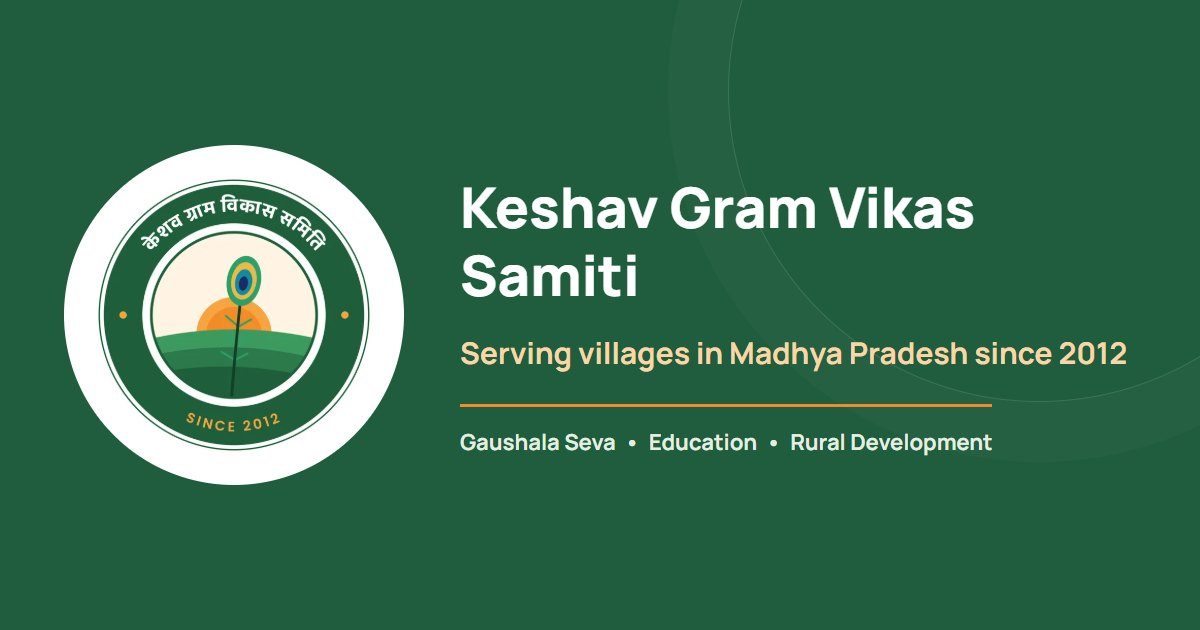
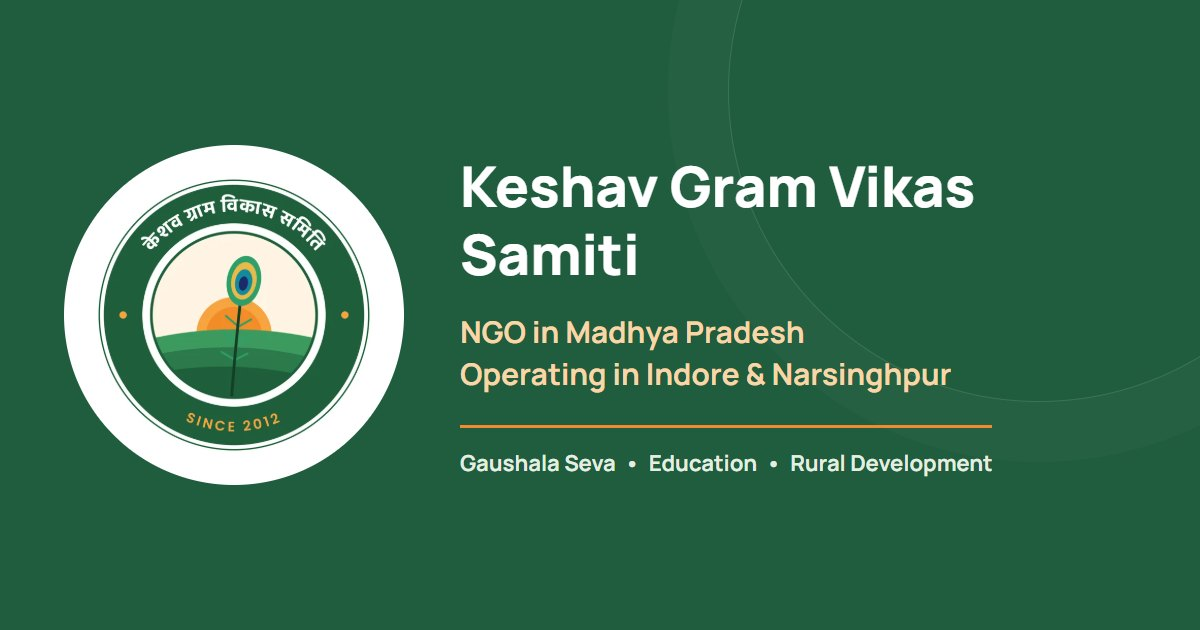
Add Search Console verification and update NGO details
Set the production domain, public contact details, and Indore and Narsinghpur operating locations across pages, SEO metadata, and share images.

Changed region(s): [[0.37, 0.5127, 0.9558, 0.754], [0.37, 0.2413, 0.8325, 0.4825]]

diff --git a/src/i18n.jsx b/src/i18n.jsx
@@ -15,8 +15,8 @@ export const translations = {
       { tag: 'OPPORTUNITY THROUGH LEARNING', title: <>Skills for today.<br/>Hope for <em>tomorrow.</em></>, text: 'Opening doors through education and vocational training in computer applications, beauty culture and cutting.', label: 'About Our Mission' },
     ],
     hero: { story: 'Know Our Story', note: 'Small acts of kindness. Lasting change.' },
-    trust: [['Registered NGO', 'Registrar of Societies'], ['Serving Since 2012', 'Rooted in rural development'], ['Madhya Pradesh', 'Working across 8 districts'], ['Driven by Seva', 'People, animals & our planet']],
-    intro: { eyebrow: 'OUR PURPOSE', title: <>Rooted in our villages.<br/>Inspired by <em>seva.</em></>, text: 'Keshav Gram Vikas Samiti is a registered non-government organisation based in Narsinghpur, Madhya Pradesh. Since 2012, our purpose has been simple: to help rural communities grow with dignity.', link: 'Meet the organisation' },
+    trust: [['Registered NGO', 'Registrar of Societies'], ['Serving Since 2012', 'Rooted in rural development'], ['Madhya Pradesh', 'Operating in Indore & Narsinghpur'], ['Driven by Seva', 'People, animals & our planet']],
+    intro: { eyebrow: 'OUR PURPOSE', title: <>Rooted in our villages.<br/>Inspired by <em>seva.</em></>, text: 'Keshav Gram Vikas Samiti is a registered non-government organisation in Madhya Pradesh, operating in Indore and Narsinghpur. Since 2012, our purpose has been simple: to help rural communities grow with dignity.', link: 'Meet the organisation' },
     work: { eyebrow: 'WHERE CARE BECOMES ACTION', title: <>Our areas of <em>service.</em></>, text: <>A better tomorrow begins with<br/>what we care for today.</>, support: 'Support cow seva', learn: 'Learn more' },
     areas: [
       { title: 'Gaushala Seva', text: 'Compassionate care for cows, calves and bulls. Help support feed, shelter and everyday wellbeing.', tag: 'CARE & COMPASSION' },
@@ -28,15 +28,15 @@ export const translations = {
     about: {
       label: 'OUR STORY', title: <>Service at heart.<br/><em>Community at the centre.</em></>, text: 'Get to know Keshav Gram Vikas Samiti and the purpose that brings us together.',
       eyebrow: 'KESHAV GRAM VIKAS SAMITI', heading: <>Growing together,<br/>since <em>2012.</em></>,
-      p1: 'Based in Narsinghpur, Madhya Pradesh, Keshav Gram Vikas Samiti is a registered society working in rural development and community welfare.',
+      p1: 'Keshav Gram Vikas Samiti is a registered society in Madhya Pradesh, operating in Indore and Narsinghpur. We work in rural development and community welfare.',
       p2: 'Our focus brings together education, livelihoods, women’s empowerment, health, agriculture and care for the environment. Gaushala seva adds a commitment to compassionate care for cows, calves and bulls.',
       skills: 'Skills that open doors', p3: 'Our vocational training includes Computer Application, Beauty Culture and Cutting, supporting practical learning and opportunities for self-reliance.',
       glance: 'Our organisation at a glance',
-      facts: [['Established', '2012'], ['Organisation', 'Registered Society (Non-Government)'], ['Registered with', 'Registrar of Societies'], ['Based in', 'Narsinghpur, Madhya Pradesh'], ['FCRA status', 'No']],
+      facts: [['Established', '2012'], ['Organisation', 'Registered Society (Non-Government)'], ['Registered with', 'Registrar of Societies'], ['State', 'Madhya Pradesh'], ['Operating in', 'Indore, Narsinghpur'], ['FCRA status', 'No']],
       focusEyebrow: 'OUR FOCUS', focusTitle: <>Many needs. One spirit of <em>service.</em></>,
       focus: ['Gaushala Seva', 'Agriculture', 'Animal Husbandry, Dairying & Fisheries', 'Art & Culture', 'Children', 'Disaster Management', 'Drinking Water', 'Education & Literacy', 'Environment & Forests', 'Health & Family Welfare', 'HIV/AIDS', 'Micro Finance (SHGs)', 'Minority Issues', 'Nutrition', 'Panchayati Raj', 'Rural Development & Poverty Alleviation', 'Women’s Development & Empowerment', 'Youth Affairs'],
-      whereEyebrow: 'WHERE WE WORK', whereTitle: <>Our roots in <em>Madhya Pradesh.</em></>, whereText: 'Our operational districts connect us to communities across the state.',
-      districts: ['Sagar', 'Damoh', 'Vidisha', 'Raisen', 'Jabalpur', 'Narsimhapur', 'Chhindwara', 'Seoni'],
+      whereEyebrow: 'WHERE WE WORK', whereTitle: <>Our roots in <em>Madhya Pradesh.</em></>, whereText: 'We currently operate in Indore and Narsinghpur.',
+      districts: ['Indore', 'Narsinghpur'],
     },
     donate: {
       label: 'GIVE WITH COMPASSION', title: <>A small contribution.<br/><em>A meaningful difference.</em></>, text: 'Support the care of cows and the wellbeing of our rural communities.',
@@ -63,7 +63,7 @@ export const translations = {
     },
     contact: {
       label: 'GET IN TOUCH', title: 'Contact us', text: 'Reach out to Keshav Gram Vikas Samiti about our work, partnerships or support.',
-      address: 'Address', phone: 'Phone', email: 'Email', pendingTitle: 'Phone and email', pendingText: 'Our direct contact details will be added here soon.',
+      address: 'Operating in', phone: 'Phone', email: 'Email', pendingTitle: 'Phone and email', pendingText: 'Our direct contact details will be added here soon.',
       reasonsTitle: 'You can contact us for', reasons: ['Gaushala seva and donations', 'Sponsorship and CSR partnerships', 'Volunteering', 'Vocational training', 'Questions about this website', 'Privacy requests'],
     },
     privacy: {
@@ -82,7 +82,7 @@ export const translations = {
     },
     callout: { eyebrow: 'TOGETHER, WE CAN DO MORE', title: <>Your kindness can<br/>be someone’s <em>new beginning.</em></>, cta: 'Support Our Mission' },
     notFound: { title: 'Page not found', text: 'The page you are looking for does not exist.', home: 'Go to Home' },
-    footer: { tagline: <>Serving our villages. Caring for every life.<br/>Growing together since 2012.</>, explore: 'Explore', focus: 'Our Focus', rooted: 'Rooted in Madhya Pradesh', location: <>Narsinghpur,<br/>Madhya Pradesh, India</>, rights: year => `© ${year} Keshav Gram Vikas Samiti. All rights reserved.`, made: 'Made with care. Inspired by seva.' },
+    footer: { tagline: <>Serving our villages. Caring for every life.<br/>Growing together since 2012.</>, explore: 'Explore', focus: 'Our Focus', rooted: 'Rooted in Madhya Pradesh', location: <>Indore & Narsinghpur,<br/>Madhya Pradesh, India</>, rights: year => `© ${year} Keshav Gram Vikas Samiti. All rights reserved.`, made: 'Made with care. Inspired by seva.' },
   },
   hi: {
     a11y: { language: 'भाषा चुनें', emblem: 'केशव ग्राम विकास समिति का प्रतीक चिह्न', orgEmblem: 'संस्था का प्रतीक चिह्न', orgName: 'केशव ग्राम विकास समिति', toggleNav: 'मेन्यू खोलें या बंद करें', mission: 'हमारा उद्देश्य', showSlide: n => `स्लाइड ${n} दिखाएँ`, play: 'स्लाइड शो चलाएँ', pause: 'स्लाइड शो रोकें', prev: 'पिछली स्लाइड', next: 'अगली स्लाइड' },
@@ -95,8 +95,8 @@ export const translations = {
       { tag: 'शिक्षा से नए अवसर', title: <>आज के लिए कौशल।<br/>कल के लिए <em>उम्मीद।</em></>, text: 'शिक्षा तथा कंप्यूटर एप्लीकेशन, ब्यूटी कल्चर और कटिंग के व्यावसायिक प्रशिक्षण से नए अवसरों के द्वार खोलना।', label: 'हमारे उद्देश्य के बारे में' },
     ],
     hero: { story: 'हमारी कहानी जानें', note: 'दया के छोटे कदम। स्थायी परिवर्तन।' },
-    trust: [['पंजीकृत एनजीओ', 'रजिस्ट्रार ऑफ़ सोसाइटीज़'], ['2012 से सेवा में', 'ग्रामीण विकास से जुड़े'], ['मध्य प्रदेश', '8 ज़िलों में कार्यरत'], ['सेवा से प्रेरित', 'लोग, पशु और हमारी धरती']],
-    intro: { eyebrow: 'हमारा उद्देश्य', title: <>अपने गाँवों से जुड़े।<br/><em>सेवा</em> से प्रेरित।</>, text: 'केशव ग्राम विकास समिति नरसिंहपुर, मध्य प्रदेश में स्थित एक पंजीकृत गैर-सरकारी संस्था है। 2012 से हमारा उद्देश्य सरल रहा है: ग्रामीण समुदायों को सम्मान के साथ आगे बढ़ने में मदद करना।', link: 'संस्था को जानें' },
+    trust: [['पंजीकृत एनजीओ', 'रजिस्ट्रार ऑफ़ सोसाइटीज़'], ['2012 से सेवा में', 'ग्रामीण विकास से जुड़े'], ['मध्य प्रदेश', 'इंदौर और नरसिंहपुर में कार्यरत'], ['सेवा से प्रेरित', 'लोग, पशु और हमारी धरती']],
+    intro: { eyebrow: 'हमारा उद्देश्य', title: <>अपने गाँवों से जुड़े।<br/><em>सेवा</em> से प्रेरित।</>, text: 'केशव ग्राम विकास समिति मध्य प्रदेश की एक पंजीकृत गैर-सरकारी संस्था है, जो इंदौर और नरसिंहपुर में कार्यरत है। 2012 से हमारा उद्देश्य सरल रहा है: ग्रामीण समुदायों को सम्मान के साथ आगे बढ़ने में मदद करना।', link: 'संस्था को जानें' },
     work: { eyebrow: 'जहाँ देखभाल कर्म बनती है', title: <>हमारे <em>सेवा क्षेत्र।</em></>, text: <>बेहतर कल की शुरुआत होती है<br/>आज की हमारी देखभाल से।</>, support: 'गौ सेवा में सहयोग करें', learn: 'और जानें' },
     areas: [
       { title: 'गौशाला सेवा', text: 'गायों, बछड़ों और बैलों की करुणामय देखभाल। चारे, आश्रय और उनके दैनिक कल्याण में सहयोग करें।', tag: 'देखभाल और करुणा' },
@@ -108,15 +108,15 @@ export const translations = {
     about: {
       label: 'हमारी कहानी', title: <>मन में सेवा।<br/><em>केंद्र में समाज।</em></>, text: 'केशव ग्राम विकास समिति और हमें एक साथ जोड़ने वाले उद्देश्य को जानें।',
       eyebrow: 'केशव ग्राम विकास समिति', heading: <>साथ-साथ आगे बढ़ते हुए,<br/><em>2012</em> से।</>,
-      p1: 'नरसिंहपुर, मध्य प्रदेश में स्थित केशव ग्राम विकास समिति एक पंजीकृत संस्था है, जो ग्रामीण विकास और समाज कल्याण के क्षेत्र में कार्य करती है।',
+      p1: 'केशव ग्राम विकास समिति मध्य प्रदेश की एक पंजीकृत संस्था है, जो इंदौर और नरसिंहपुर में ग्रामीण विकास और समाज कल्याण के क्षेत्र में कार्य करती है।',
       p2: 'हमारा कार्य शिक्षा, आजीविका, महिला सशक्तिकरण, स्वास्थ्य, कृषि और पर्यावरण संरक्षण को एक साथ जोड़ता है। गौशाला सेवा के माध्यम से हम गायों, बछड़ों और बैलों की करुणामय देखभाल के लिए भी प्रतिबद्ध हैं।',
       skills: 'कौशल जो नए द्वार खोले', p3: 'हमारे व्यावसायिक प्रशिक्षण में कंप्यूटर एप्लीकेशन, ब्यूटी कल्चर और कटिंग शामिल हैं, जो व्यावहारिक शिक्षा और आत्मनिर्भरता के अवसर देते हैं।',
       glance: 'हमारी संस्था एक नज़र में',
-      facts: [['स्थापना', '2012'], ['संस्था', 'पंजीकृत सोसाइटी (गैर-सरकारी)'], ['पंजीयन', 'रजिस्ट्रार ऑफ़ सोसाइटीज़'], ['स्थान', 'नरसिंहपुर, मध्य प्रदेश'], ['FCRA स्थिति', 'नहीं']],
+      facts: [['स्थापना', '2012'], ['संस्था', 'पंजीकृत सोसाइटी (गैर-सरकारी)'], ['पंजीयन', 'रजिस्ट्रार ऑफ़ सोसाइटीज़'], ['राज्य', 'मध्य प्रदेश'], ['कार्य क्षेत्र', 'इंदौर, नरसिंहपुर'], ['FCRA स्थिति', 'नहीं']],
       focusEyebrow: 'हमारे कार्य क्षेत्र', focusTitle: <>अनेक ज़रूरतें। <em>सेवा</em> का एक भाव।</>,
       focus: ['गौशाला सेवा', 'कृषि', 'पशुपालन, डेयरी और मत्स्य पालन', 'कला और संस्कृति', 'बच्चे', 'आपदा प्रबंधन', 'पेयजल', 'शिक्षा और साक्षरता', 'पर्यावरण और वन', 'स्वास्थ्य और परिवार कल्याण', 'एचआईवी/एड्स', 'सूक्ष्म वित्त (स्वयं सहायता समूह)', 'अल्पसंख्यक मुद्दे', 'पोषण', 'पंचायती राज', 'ग्रामीण विकास और गरीबी उन्मूलन', 'महिला विकास और सशक्तिकरण', 'युवा मामले'],
-      whereEyebrow: 'हमारा कार्य क्षेत्र', whereTitle: <><em>मध्य प्रदेश</em> में हमारी जड़ें।</>, whereText: 'हमारे कार्यक्षेत्र के ज़िले हमें प्रदेश भर के समुदायों से जोड़ते हैं।',
-      districts: ['सागर', 'दमोह', 'विदिशा', 'रायसेन', 'जबलपुर', 'नरसिंहपुर', 'छिंदवाड़ा', 'सिवनी'],
+      whereEyebrow: 'हमारा कार्य क्षेत्र', whereTitle: <><em>मध्य प्रदेश</em> में हमारी जड़ें।</>, whereText: 'फ़िलहाल हम इंदौर और नरसिंहपुर में कार्यरत हैं।',
+      districts: ['इंदौर', 'नरसिंहपुर'],
     },
     donate: {
       label: 'करुणा से दान करें', title: <>एक छोटा सा योगदान।<br/><em>एक सार्थक बदलाव।</em></>, text: 'गायों की देखभाल और हमारे ग्रामीण समुदायों के कल्याण में सहयोग करें।',
@@ -143,7 +143,7 @@ export const translations = {
     },
     contact: {
       label: 'हमसे जुड़ें', title: 'संपर्क करें', text: 'हमारे कार्य, साझेदारी या सहयोग के बारे में केशव ग्राम विकास समिति से संपर्क करें।',
-      address: 'पता', phone: 'फ़ोन', email: 'ईमेल', pendingTitle: 'फ़ोन और ईमेल', pendingText: 'हमारे सीधे संपर्क की जानकारी जल्द ही यहाँ जोड़ी जाएगी।',
+      address: 'कार्य क्षेत्र', phone: 'फ़ोन', email: 'ईमेल', pendingTitle: 'फ़ोन और ईमेल', pendingText: 'हमारे सीधे संपर्क की जानकारी जल्द ही यहाँ जोड़ी जाएगी।',
       reasonsTitle: 'आप इन विषयों पर संपर्क कर सकते हैं', reasons: ['गौशाला सेवा और दान', 'प्रायोजन और CSR साझेदारी', 'स्वयंसेवा', 'व्यावसायिक प्रशिक्षण', 'इस वेबसाइट से जुड़े प्रश्न', 'निजता से जुड़े अनुरोध'],
     },
     privacy: {
@@ -162,7 +162,7 @@ export const translations = {
     },
     callout: { eyebrow: 'साथ मिलकर हम और कर सकते हैं', title: <>आपकी दया बन सकती है<br/>किसी की <em>नई शुरुआत।</em></>, cta: 'हमारे उद्देश्य में सहयोग करें' },
     notFound: { title: 'पृष्ठ नहीं मिला', text: 'आप जो पृष्ठ खोज रहे हैं, वह उपलब्ध नहीं है।', home: 'मुख्य पृष्ठ पर जाएँ' },
-    footer: { tagline: <>गाँवों की सेवा। हर जीवन की देखभाल।<br/>2012 से साथ-साथ आगे बढ़ते हुए।</>, explore: 'देखें', focus: 'हमारे कार्य', rooted: 'मध्य प्रदेश से जुड़े', location: <>नरसिंहपुर,<br/>मध्य प्रदेश, भारत</>, rights: year => `© ${year} केशव ग्राम विकास समिति। सर्वाधिकार सुरक्षित।`, made: 'स्नेह से निर्मित। सेवा से प्रेरित।' },
+    footer: { tagline: <>गाँवों की सेवा। हर जीवन की देखभाल।<br/>2012 से साथ-साथ आगे बढ़ते हुए।</>, explore: 'देखें', focus: 'हमारे कार्य', rooted: 'मध्य प्रदेश से जुड़े', location: <>इंदौर और नरसिंहपुर,<br/>मध्य प्रदेश, भारत</>, rights: year => `© ${year} केशव ग्राम विकास समिति। सर्वाधिकार सुरक्षित।`, made: 'स्नेह से निर्मित। सेवा से प्रेरित।' },
   },
 };
 

diff --git a/src/seo.js b/src/seo.js
@@ -19,22 +19,22 @@ export function parseRoute(pathname) {
 }
 
 const ORG = { en: 'Keshav Gram Vikas Samiti', hi: 'केशव ग्राम विकास समिति' };
-const DISTRICTS = ['Sagar', 'Damoh', 'Vidisha', 'Raisen', 'Jabalpur', 'Narsinghpur', 'Chhindwara', 'Seoni'];
+const DISTRICTS = ['Indore', 'Narsinghpur'];
 
 const COPY = {
   en: {
-    home: { name: 'Home', title: 'Keshav Gram Vikas Samiti | NGO in Narsinghpur, MP', description: 'Registered NGO in Narsinghpur, Madhya Pradesh, serving villages since 2012 through Gaushala seva, education, skills training and rural development.' },
-    about: { name: 'About Us', title: 'About Us | Keshav Gram Vikas Samiti, Narsinghpur', description: 'Keshav Gram Vikas Samiti is a registered society working since 2012 on rural development, education, women’s empowerment and health in 8 MP districts.' },
+    home: { name: 'Home', title: 'Keshav Gram Vikas Samiti | NGO in Madhya Pradesh', description: 'Registered NGO in Madhya Pradesh, operating in Indore and Narsinghpur, serving since 2012 through Gaushala seva, education, skills and rural development.' },
+    about: { name: 'About Us', title: 'About Us | Keshav Gram Vikas Samiti, Madhya Pradesh', description: 'Registered society in Madhya Pradesh, operating in Indore and Narsinghpur since 2012 on rural development, education, women’s empowerment and health.' },
     donate: { name: 'Donations', title: 'Support Gaushala Seva | Keshav Gram Vikas Samiti', description: 'Support cow care, education and rural development with Keshav Gram Vikas Samiti in Madhya Pradesh. Online payments are not active yet.' },
-    contact: { name: 'Contact', title: 'Contact Us | Keshav Gram Vikas Samiti, Narsinghpur', description: 'Contact Keshav Gram Vikas Samiti in Narsinghpur, Madhya Pradesh about Gaushala seva, sponsorship, volunteering, vocational training and our rural work.' },
+    contact: { name: 'Contact', title: 'Contact Us | Keshav Gram Vikas Samiti, Madhya Pradesh', description: 'Contact Keshav Gram Vikas Samiti, an NGO in Madhya Pradesh operating in Indore and Narsinghpur, about Gaushala seva, sponsorship, volunteering, vocational training and our rural work.' },
     privacy: { name: 'Privacy Policy', title: 'Privacy Policy | Keshav Gram Vikas Samiti', description: 'Read how the Keshav Gram Vikas Samiti website uses browser storage, hosting logs, Google Fonts and cookies, and how to contact us about privacy.' },
     notfound: { name: 'Page not found', title: 'Page not found | Keshav Gram Vikas Samiti', description: 'This page could not be found.' },
   },
   hi: {
-    home: { name: 'मुख्य पृष्ठ', title: 'केशव ग्राम विकास समिति | नरसिंहपुर, मध्य प्रदेश की एनजीओ', description: 'नरसिंहपुर, मध्य प्रदेश की पंजीकृत संस्था, जो 2012 से गौशाला सेवा, शिक्षा, कौशल प्रशिक्षण और ग्रामीण विकास के माध्यम से गाँवों की सेवा कर रही है।' },
-    about: { name: 'हमारे बारे में', title: 'हमारे बारे में | केशव ग्राम विकास समिति, नरसिंहपुर', description: 'केशव ग्राम विकास समिति के बारे में जानें, जो 2012 से मध्य प्रदेश के 8 ज़िलों में ग्रामीण विकास, शिक्षा, महिला सशक्तिकरण और स्वास्थ्य पर कार्य कर रही है।' },
+    home: { name: 'मुख्य पृष्ठ', title: 'केशव ग्राम विकास समिति | मध्य प्रदेश की एनजीओ', description: 'मध्य प्रदेश की पंजीकृत एनजीओ, जो इंदौर और नरसिंहपुर में 2012 से गौशाला सेवा, शिक्षा, कौशल प्रशिक्षण और ग्रामीण विकास के माध्यम से सेवा कर रही है।' },
+    about: { name: 'हमारे बारे में', title: 'हमारे बारे में | केशव ग्राम विकास समिति, मध्य प्रदेश', description: 'केशव ग्राम विकास समिति के बारे में जानें, जो 2012 से मध्य प्रदेश के इंदौर और नरसिंहपुर में ग्रामीण विकास, शिक्षा, महिला सशक्तिकरण और स्वास्थ्य पर कार्य कर रही है।' },
     donate: { name: 'दान', title: 'गौशाला सेवा में सहयोग करें | केशव ग्राम विकास समिति', description: 'मध्य प्रदेश में गौ सेवा, शिक्षा और ग्रामीण विकास के लिए केशव ग्राम विकास समिति का सहयोग करें। ऑनलाइन भुगतान अभी शुरू नहीं हुआ है।' },
-    contact: { name: 'संपर्क', title: 'संपर्क करें | केशव ग्राम विकास समिति, नरसिंहपुर', description: 'गौशाला सेवा, प्रायोजन, स्वयंसेवा, व्यावसायिक प्रशिक्षण और ग्रामीण कार्यों के लिए नरसिंहपुर, मध्य प्रदेश की केशव ग्राम विकास समिति से संपर्क करें।' },
+    contact: { name: 'संपर्क', title: 'संपर्क करें | केशव ग्राम विकास समिति, मध्य प्रदेश', description: 'गौशाला सेवा, प्रायोजन, स्वयंसेवा, व्यावसायिक प्रशिक्षण और ग्रामीण कार्यों के लिए मध्य प्रदेश की केशव ग्राम विकास समिति (इंदौर और नरसिंहपुर) से संपर्क करें।' },
     privacy: { name: 'निजता नीति', title: 'निजता नीति | केशव ग्राम विकास समिति', description: 'जानें कि केशव ग्राम विकास समिति की वेबसाइट ब्राउज़र स्टोरेज, होस्टिंग लॉग, Google Fonts और कुकीज़ का उपयोग कैसे करती है।' },
     notfound: { name: 'पृष्ठ नहीं मिला', title: 'पृष्ठ नहीं मिला | केशव ग्राम विकास समिति', description: 'यह पृष्ठ नहीं मिला।' },
   },
@@ -59,7 +59,7 @@ function structuredData(siteUrl, lang, page, copy, url) {
       ...(CONTACT.phone && { telephone: CONTACT.phone }),
       ...(CONTACT.email && { email: CONTACT.email }),
       description: COPY.en.home.description,
-      address: { '@type': 'PostalAddress', addressLocality: 'Narsinghpur', addressRegion: 'Madhya Pradesh', addressCountry: 'IN' },
+      address: { '@type': 'PostalAddress', addressRegion: 'Madhya Pradesh', addressCountry: 'IN' },
       areaServed: DISTRICTS.map(name => ({ '@type': 'AdministrativeArea', name: `${name}, Madhya Pradesh` })),
       knowsAbout: ['Gaushala Seva', 'Rural Development', 'Education', 'Vocational Training', 'Women Empowerment'],
     },

diff --git a/index.html b/index.html
@@ -1,2 +1,2 @@
 <!doctype html>
-<html lang="en"><head><meta charset="UTF-8"/><meta name="viewport" content="width=device-width, initial-scale=1.0"/><meta name="theme-color" content="#205c3e"/><script data-route-redirect>(function(){var m={home:'',about:'about/',donate:'donate/'},p=location.pathname,h=location.hash.slice(1),b=p.indexOf('/hi/')===0?'/hi/':'/',s=null,t=null;try{s=localStorage.getItem('kgvs-language')}catch(e){}if(Object.prototype.hasOwnProperty.call(m,h)){t=(s==='hi'?'/hi/':b)+m[h]}else if(s==='hi'&&b==='/'){t='/hi'+p}if(t&&t!==p)location.replace(t+location.search)})()</script><!--seo-start--><title>Keshav Gram Vikas Samiti | NGO in Narsinghpur, Madhya Pradesh</title><!--seo-end--><link rel="icon" href="/favicon.ico" sizes="any"/><link rel="icon" type="image/png" sizes="192x192" href="/icon-192.png"/><link rel="apple-touch-icon" href="/apple-touch-icon.png"/><link rel="manifest" href="/site.webmanifest"/><link rel="preconnect" href="https://fonts.googleapis.com"/><link rel="preconnect" href="https://fonts.gstatic.com" crossorigin/><link rel="stylesheet" href="https://fonts.googleapis.com/css2?family=DM+Sans:wght@400;500;600;700&family=Manrope:wght@400;500;600;700;800&family=Noto+Sans+Devanagari:wght@400;500;600;700;800&family=Noto+Serif+Devanagari:wght@400;500&display=swap"/></head><body><div id="root"></div><script type="module" src="/src/main.jsx"></script></body></html>
+<html lang="en"><head><meta charset="UTF-8"/><meta name="viewport" content="width=device-width, initial-scale=1.0"/><meta name="theme-color" content="#205c3e"/><script data-route-redirect>(function(){var m={home:'',about:'about/',donate:'donate/'},p=location.pathname,h=location.hash.slice(1),b=p.indexOf('/hi/')===0?'/hi/':'/',s=null,t=null;try{s=localStorage.getItem('kgvs-language')}catch(e){}if(Object.prototype.hasOwnProperty.call(m,h)){t=(s==='hi'?'/hi/':b)+m[h]}else if(s==='hi'&&b==='/'){t='/hi'+p}if(t&&t!==p)location.replace(t+location.search)})()</script><!--seo-start--><title>Keshav Gram Vikas Samiti | NGO in Madhya Pradesh</title><!--seo-end--><link rel="icon" href="/favicon.ico" sizes="any"/><link rel="icon" type="image/png" sizes="192x192" href="/icon-192.png"/><link rel="apple-touch-icon" href="/apple-touch-icon.png"/><link rel="manifest" href="/site.webmanifest"/><link rel="preconnect" href="https://fonts.googleapis.com"/><link rel="preconnect" href="https://fonts.gstatic.com" crossorigin/><link rel="stylesheet" href="https://fonts.googleapis.com/css2?family=DM+Sans:wght@400;500;600;700&family=Manrope:wght@400;500;600;700;800&family=Noto+Sans+Devanagari:wght@400;500;600;700;800&family=Noto+Serif+Devanagari:wght@400;500&display=swap"/></head><body><div id="root"></div><script type="module" src="/src/main.jsx"></script></body></html>

diff --git a/src/contact.js b/src/contact.js
@@ -1,5 +1,5 @@
-// Add the organisation's real public contact details here. Empty values stay hidden on the site.
+// The organisation's public contact details. Empty values stay hidden on the site.
 export const CONTACT = {
-  phone: '', // Example format: +919876543210
-  email: '',
+  phone: '+917471113934',
+  email: 'kesavgramvikassamiti@gmail.com',
 };

diff --git a/public/google32e474a9267ee6c1.html b/public/google32e474a9267ee6c1.html
@@ -1,0 +1,1 @@
+google-site-verification: google32e474a9267ee6c1.html

diff --git a/README.md b/README.md
@@ -43,7 +43,7 @@ Public phone and email are set in `src/contact.js`.
 
 Set these build environment variables on your host:
 
-- `SITE_URL`: the live https address, for example `https://your-domain.org`. Required for canonical URLs, sitemap and WhatsApp/social preview images.
+- `SITE_URL`: optional override for the live https address. The default is `https://kesavgramvikassamiti.com`.
 - `GOOGLE_SITE_VERIFICATION`: optional token from Google Search Console's HTML tag method.
 
 Page titles and descriptions are in `src/seo.js`.
